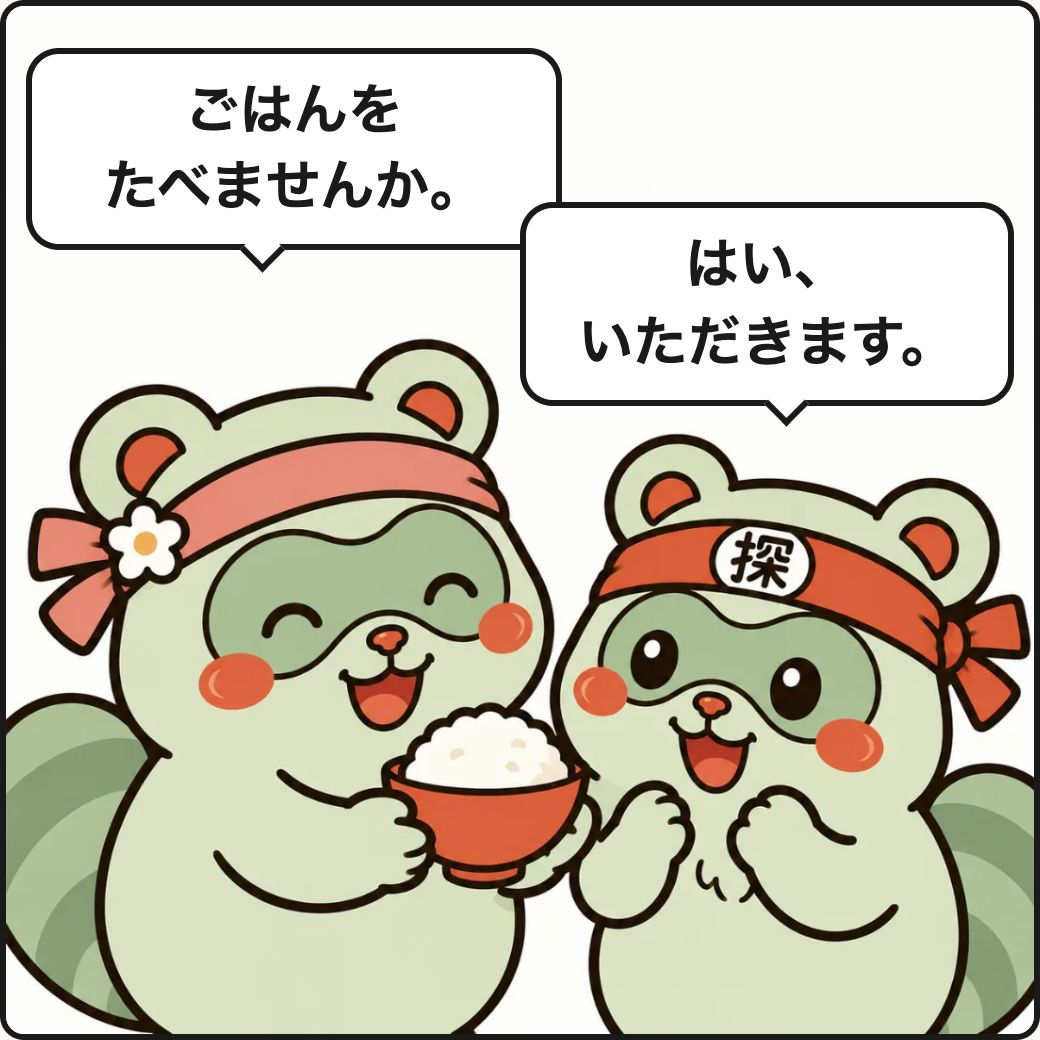
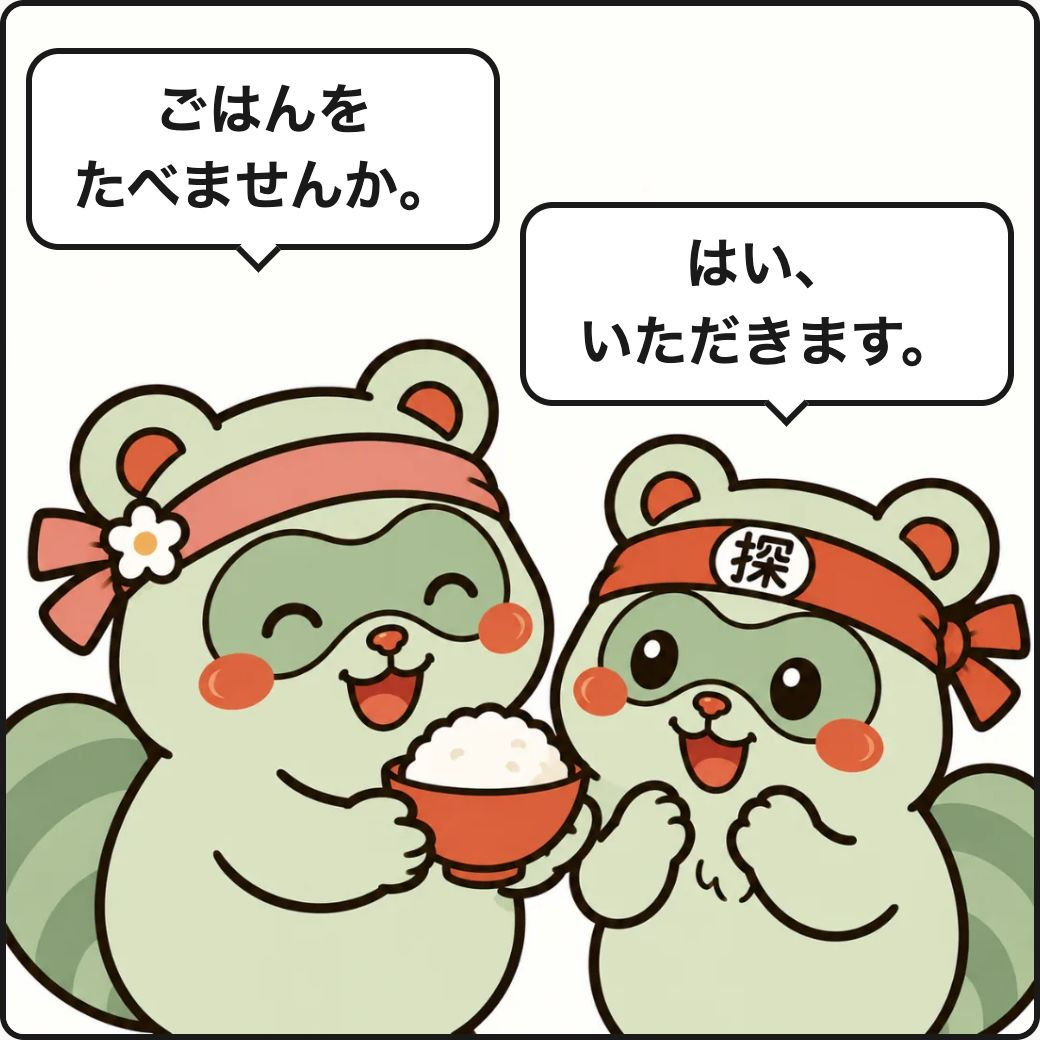
fix(stories): episode 6 P3, Tan's bubble no longer runs into his mother's
On the page, in e3.jpg and in the link card, ごはんを たべませんか。 was
52% wide and ended at 53.9%, while はい、 いただきます。 starts at 50%
from 19.4% down: the two boxes overlapped at the corner, in Hiragino
and Noto Sans JP alike. strips/ep-06/script.json was fixed on
2026-09-30 (w 46, tail at 49%), during the Short 6 work, three days
after the data was imported, and never re-imported. `pnpm stories:ship
6` brings it across; the bubble now ends at 48%.

The re-import also re-encoded every pN.webp and pN.jpg with no pixel
changed (max difference 0); those are left as they were.

diff --git a/data/stories/ep-06.ts b/data/stories/ep-06.ts
@@ -49,7 +49,7 @@ export const EPISODE: Episode = {
     beat: "Rice from mother",
     art: "/stories/tans-family-and-friends/p3.webp",
     lines: [
-      { speaker: "haha", ja: "ごはんを たべませんか。", en: "Won't you eat some rice?", bubble: { x: 2, y: 4, w: 52, tail: "bl", tailX: 44 } },
+      { speaker: "haha", ja: "ごはんを たべませんか。", en: "Won't you eat some rice?", bubble: { x: 2, y: 4, w: 46, tail: "bl", tailX: 49 } },
       { speaker: "tan", ja: "はい、 いただきます。", en: "Yes, thank you!", bubble: { x: 50, y: 19, w: 48, tail: "bl", tailX: 54 } },
     ],
   },
